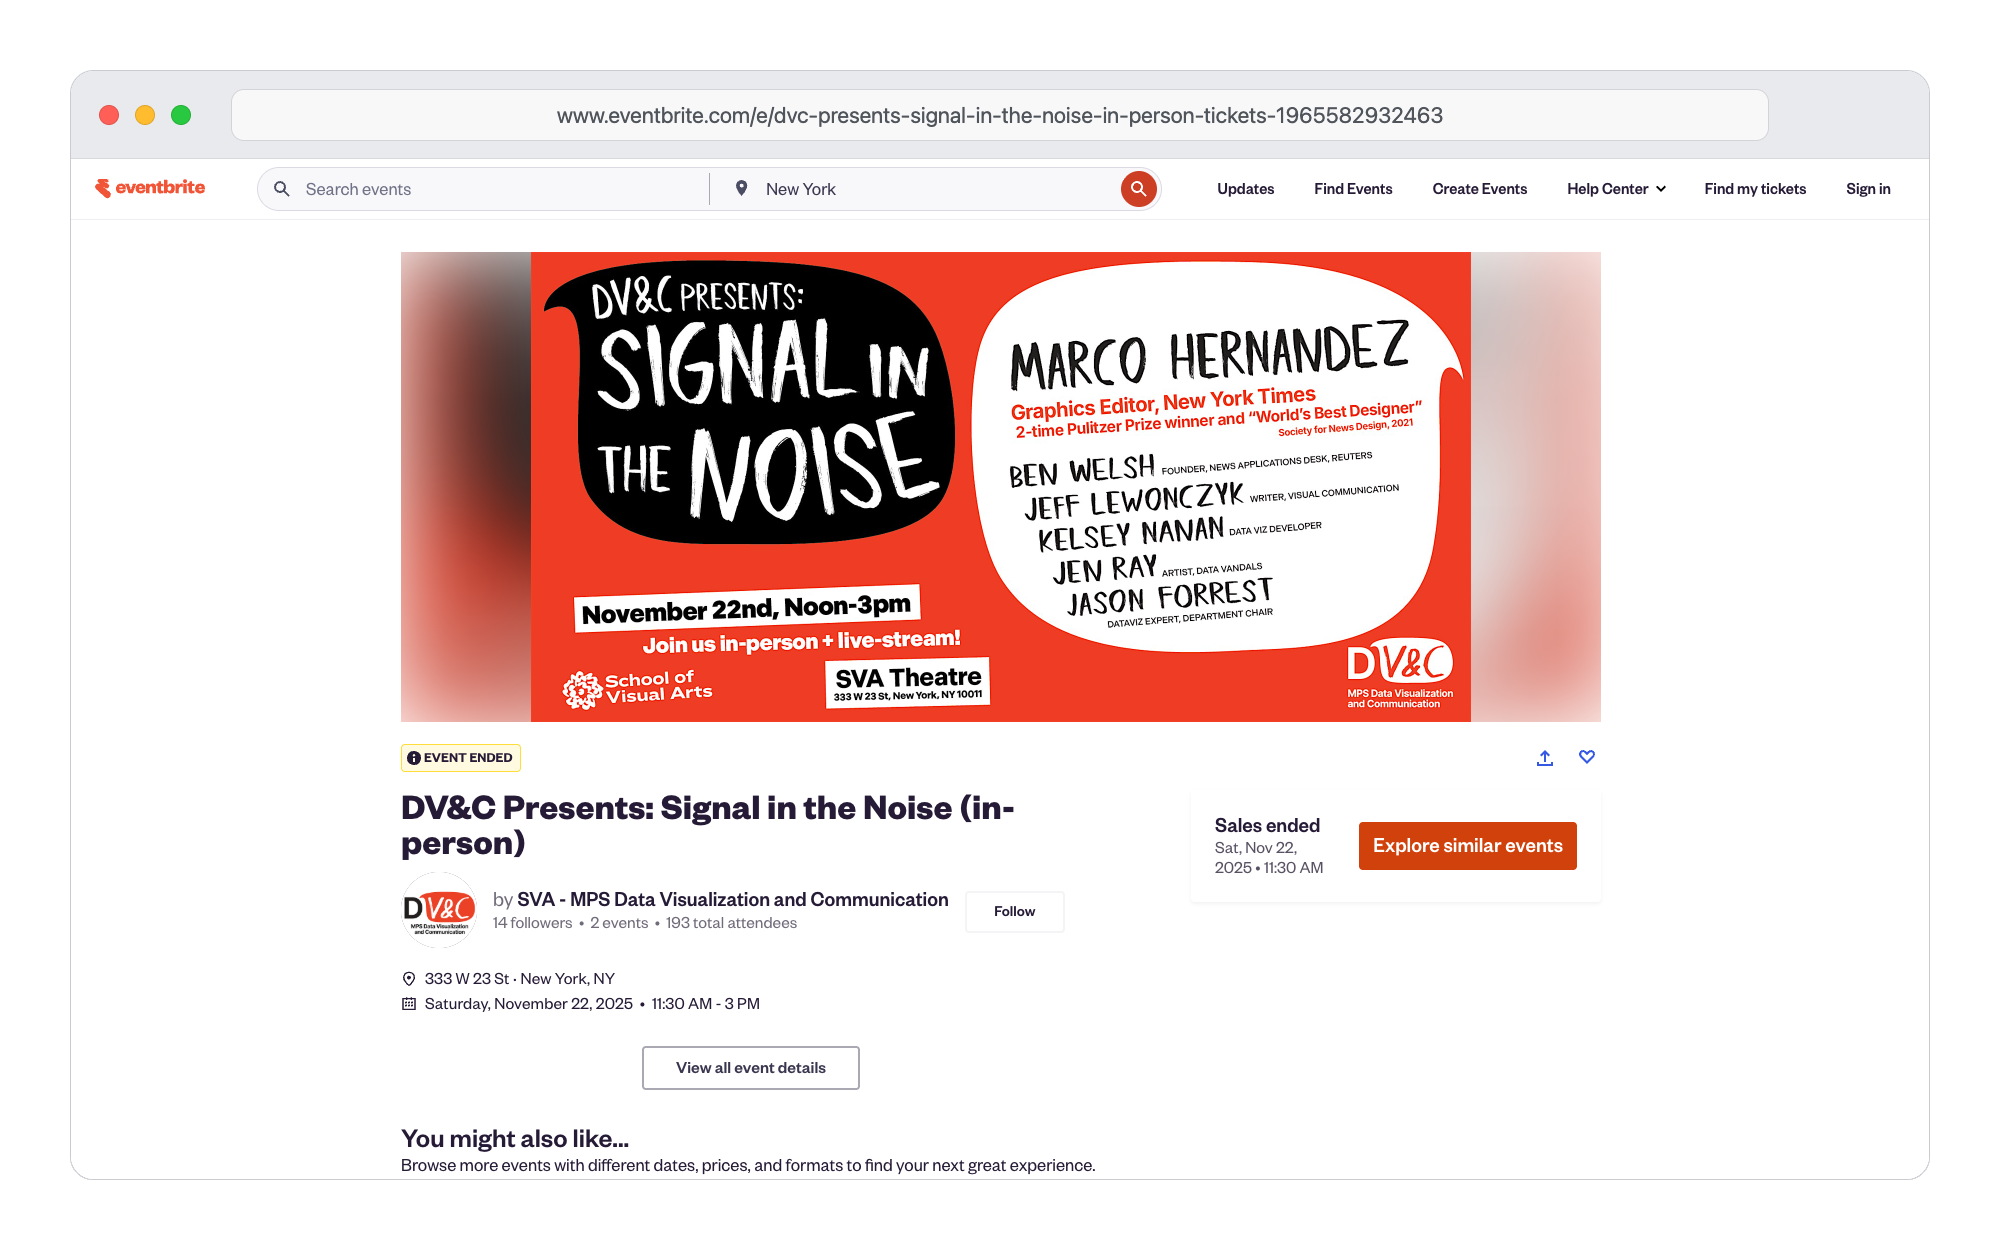
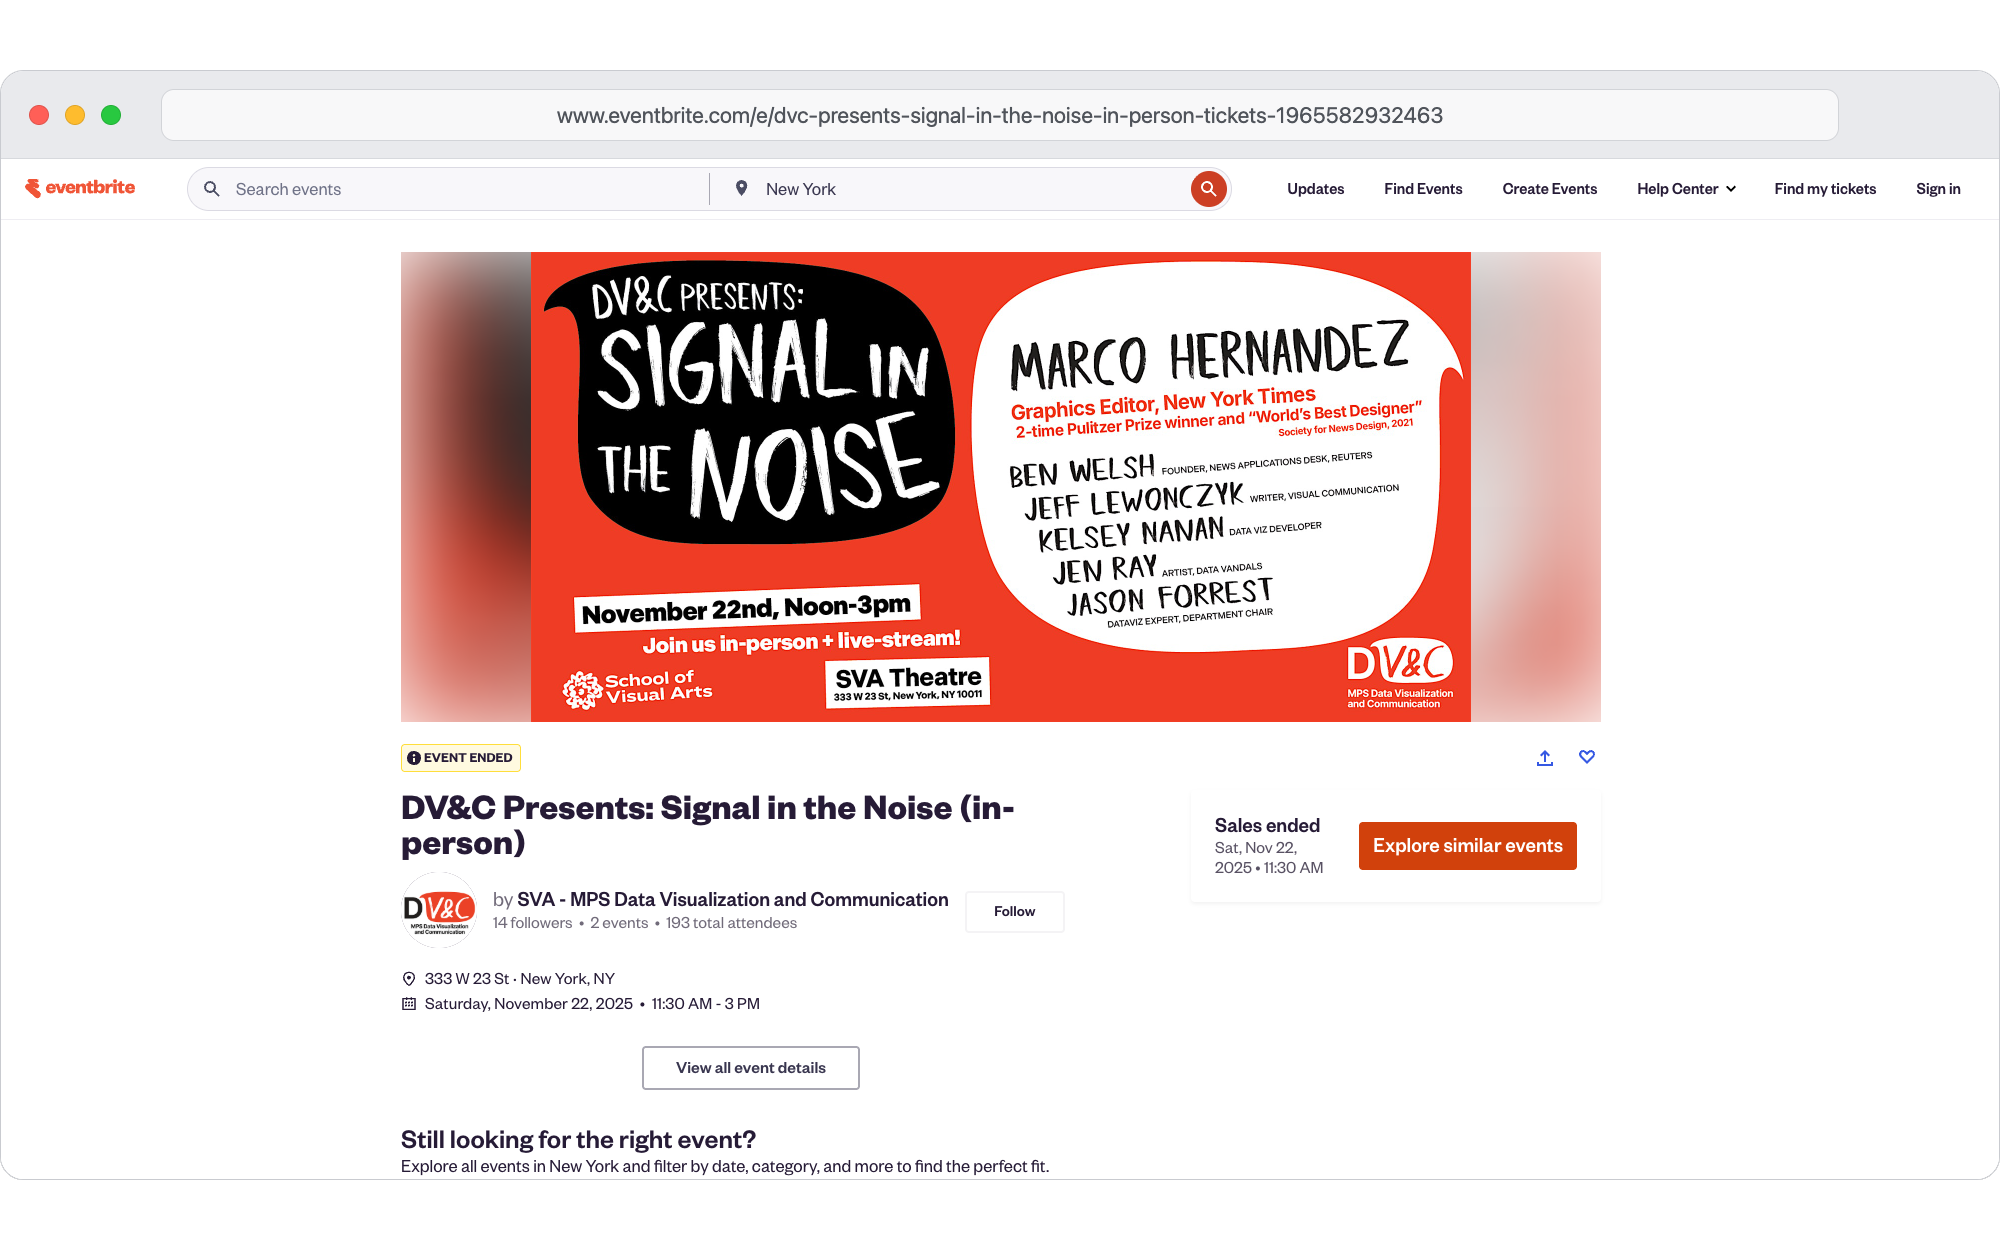
Make lead art flush horizontally

diff --git a/.github/skills/lead-art-screenshot/frame.html b/.github/skills/lead-art-screenshot/frame.html
@@ -29,7 +29,7 @@
       }
 
       .browser {
-        width: 1860px;
+        width: 2000px;
         height: 1110px;
         overflow: hidden;
         border: 1px solid #c9cbd0;
@@ -92,7 +92,7 @@
 
       .viewport,
       .viewport img {
-        width: 1860px;
+        width: 2000px;
         height: 1022px;
       }
 

diff --git a/.github/skills/lead-art-screenshot/capture.py b/.github/skills/lead-art-screenshot/capture.py
@@ -19,10 +19,10 @@ FRAME_PATH = Path(__file__).with_name("frame.html")
 WORK_DIR = REPO_ROOT / ".lead-art"
 IMAGE_DIR = REPO_ROOT / "coltrane" / "static" / "img"
 CHROME_DEVTOOLS_VERSION = "1.8.0"
-SOURCE_VIEWPORT = "1860x1022x1"
+SOURCE_VIEWPORT = "2000x1022x1"
 OUTPUT_VIEWPORT = "2000x1250x1"
 OUTPUT_SIZE = (2000, 1250)
-FRAME_BOUNDS = (70, 70, 1930, 1180)
+FRAME_BOUNDS = (0, 70, 2000, 1180)
 FRAME_RADIUS = 24
 
 

diff --git a/.github/skills/lead-art-screenshot/SKILL.md b/.github/skills/lead-art-screenshot/SKILL.md
@@ -30,9 +30,9 @@ Use these values for every capture:
 | Item | Value |
 |---|---:|
 | Finished image | 2000x1250 pixels |
-| Page viewport | 1860x1022 pixels |
-| Browser frame | 1860x1110 pixels |
-| Outer margin | 70 pixels, transparent |
+| Page viewport | 2000x1022 pixels |
+| Browser frame | 2000x1110 pixels |
+| Outer margin | 70 pixels above and below, transparent |
 | Device scale | 1 |
 | Format | PNG |
 
